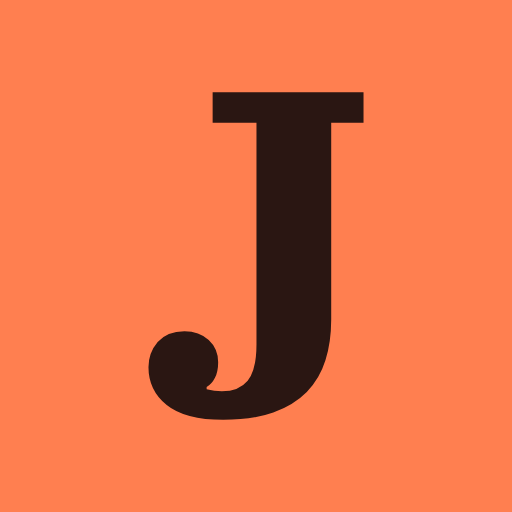
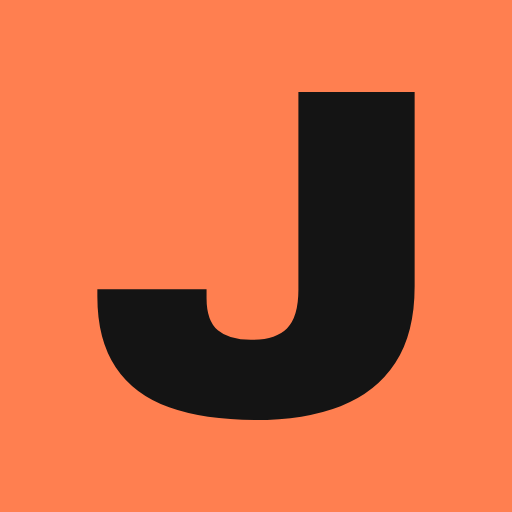
J mark in the new type, everywhere it appears
- Redraw the J as an extended black Archivo letter (converted to paths so
  it doesn't depend on the web font), ink on coral
- Same shapes in the phone nav mark, favicon.svg, favicon.ico,
  apple-touch-icon and the 192/512 app icons
- Bump icon cache-busting query strings to v=3

Claude-Session: https://claude.ai/code/session_01LAGKUiuetwEyqTaRNwJfzB

diff --git a/src/components/Shared.jsx b/src/components/Shared.jsx
@@ -128,12 +128,12 @@ const menuContact = [
   ['Resume', 'PDF ↓', { href: RESUME_PDF, download: 'Justin-Neely-Resume.pdf' }]
 ];
 
-/** The coral J square, drawn from the same shapes as public/favicon.svg. */
+/** The coral J square: an extended black J (Archivo), same shapes as public/favicon.svg. */
 export function LogoMark({ size = 36, sx }) {
   return (
     <Box component="svg" viewBox="0 0 64 64" width={size} height={size} aria-hidden="true" sx={{ flex: 'none', ...sx }}>
       <rect width="64" height="64" fill="#FF7F50" />
-      <path fill="#2A1612" d="M27.9 52.48Q23.12 52.48 20.84 50.63Q18.56 48.79 18.56 45.9Q18.56 44.11 19.71 42.76Q20.87 41.4 23.06 41.4Q24.9 41.4 26.09 42.5Q27.27 43.6 27.27 45.27Q27.27 46.42 26.87 47.23Q26.46 48.04 25.83 48.38V48.67Q26.29 48.79 26.78 48.85Q27.27 48.9 27.73 48.9Q29.87 48.9 30.96 47.58Q32.06 46.25 32.06 43.02V15.33H26.58V11.52H45.44V15.33H41.4V39.96Q41.4 42.73 40.68 45.04Q39.96 47.35 38.35 48.99Q36.73 50.63 34.16 51.56Q31.6 52.48 27.9 52.48Z" />
+      <path fill="#141414" d="M31.85 52.5Q25.53 52.5 21.14 50.92Q16.74 49.34 14.46 45.91Q12.17 42.48 12.17 37.1V36.16H25.82V37.27Q25.82 40.08 27.23 41.28Q28.63 42.48 31.33 42.48Q34.43 42.48 35.87 41.05Q37.3 39.61 37.3 36.22V11.5H51.83V35.81Q51.83 41.66 49.42 45.35Q47.02 49.04 42.57 50.77Q38.12 52.5 31.85 52.5Z" />
     </Box>
   );
 }

diff --git a/index.html b/index.html
@@ -17,10 +17,10 @@
     <meta property="og:image:height" content="630" />
     <meta property="og:image:alt" content="Justin Neely, Product Designer: Left-handed by nature. Designer by profession. Human by default. jwfn.design" />
     <meta name="twitter:card" content="summary_large_image" />
-    <link rel="icon" href="/favicon.ico?v=2" sizes="48x48" />
-    <link rel="icon" href="/favicon.svg?v=2" type="image/svg+xml" />
-    <link rel="apple-touch-icon" href="/apple-touch-icon.png?v=2" />
-    <link rel="manifest" href="/site.webmanifest?v=2" />
+    <link rel="icon" href="/favicon.ico?v=3" sizes="48x48" />
+    <link rel="icon" href="/favicon.svg?v=3" type="image/svg+xml" />
+    <link rel="apple-touch-icon" href="/apple-touch-icon.png?v=3" />
+    <link rel="manifest" href="/site.webmanifest?v=3" />
     <link rel="preconnect" href="https://fonts.googleapis.com" />
     <link rel="preconnect" href="https://fonts.gstatic.com" crossorigin />
     <link
